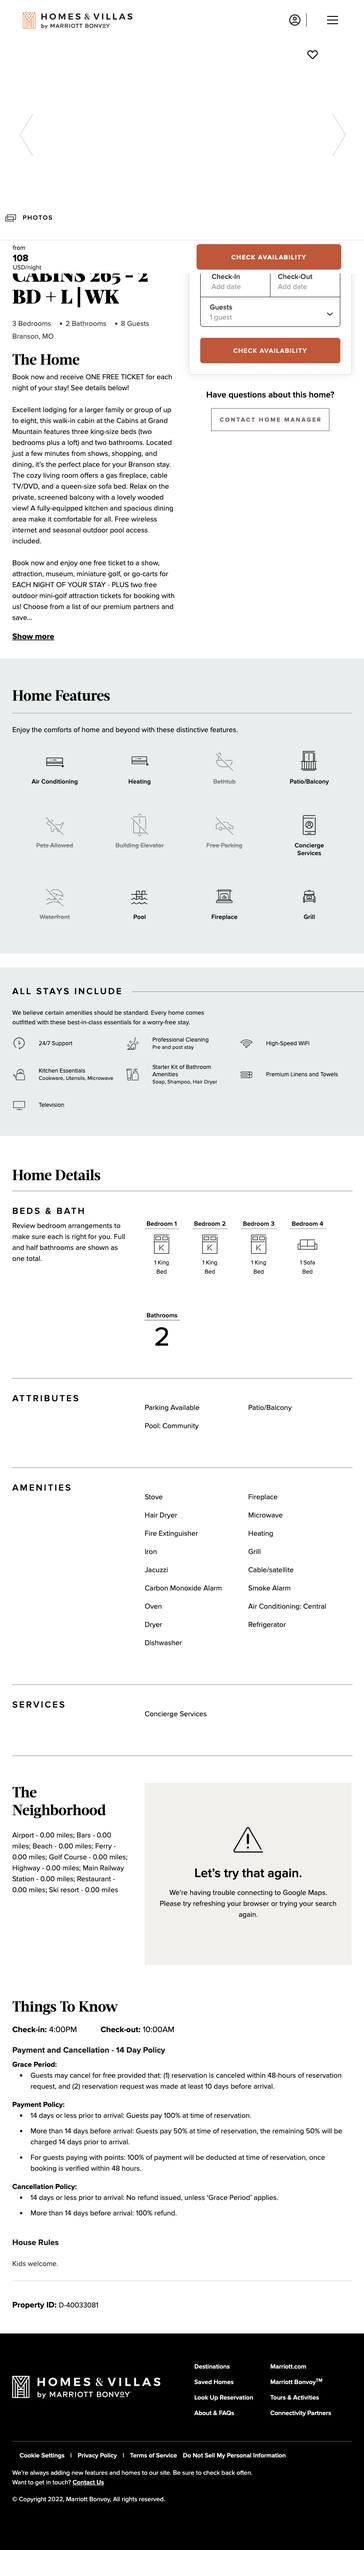
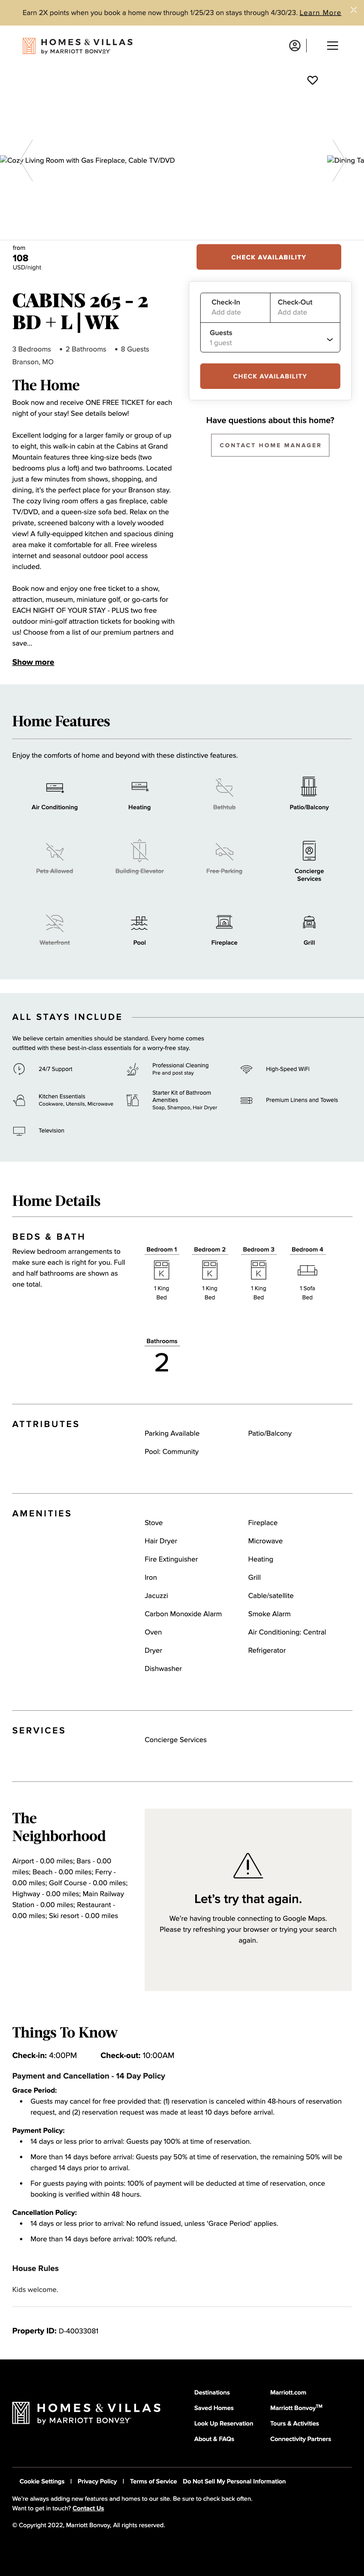
screenshots upload to minio made dynamic

diff --git a/scraper-marriott.js b/scraper-marriott.js
@@ -1,0 +1,168 @@
+const getInputData = require('./input-data');
+const options = require('./config');
+const s3Client = require('./s3-client');
+const Stream = require('stream');
+const { createGzip } = require('zlib');
+const csvWriteStream = require('csv-write-stream');
+const requestDataPaths = {
+    check_in_date: '#pdp-103-bleed-0-pdphomesummary > div > div > div > div > div:nth-child(2) > div > div:nth-child(1) > div > div > div > div > div > div > div > div > div> div:nth-child(1)  > span > div:nth-child(2)',
+    check_out_date: '#pdp-103-bleed-0-pdphomesummary > div > div > div > div > div:nth-child(2) > div> div:nth-child(1) > div > div > div > div> div > div> div > div > div > div:nth-child(4)> span > div:nth-child(2)',
+    price_per_night: '#pdp-103-bleed-0-pdphomesummary > div > div > div > div > div:nth-child(2) > div> div:nth-child(1) > div > div:nth-child(1)> div:nth-child(1) > div:nth-child(2)>div>div>div:nth-child(1)',
+    security_deposit_brut_not_sliced: '#pdp-103-bleed-0-pdphomesummary > div > div > div > div > div:nth-child(2) > div> div:nth-child(1) > div > div:nth-child(1)> div:nth-child(1) > div:nth-child(2)>div>div>div:nth-child(2)',
+    cleaning_fee_brut_not_sliced: '#pdp-103-bleed-0-pdphomesummary > div > div > div > div > div:nth-child(2) > div> div:nth-child(1) > div > div:nth-child(1)> div:nth-child(1) > div:nth-child(2)>div>div>div:nth-child(3)',
+    taxes_fee_brut_not_sliced: '#pdp-103-bleed-0-pdphomesummary > div > div > div > div > div:nth-child(2) > div> div:nth-child(1) > div > div:nth-child(1)> div:nth-child(1) > div:nth-child(2)>div>div>div:nth-child(4)',
+    total_amount_brut_not_sliced: '#pdp-103-bleed-0-pdphomesummary > div > div > div > div > div:nth-child(2) > div> div:nth-child(1) > div > div:nth-child(1)> div:nth-child(1) > div:nth-child(2)>div>div>div:nth-child(5)'
+}
+
+// let counter = 0;
+
+async function getData(browser, urls, writeStream) {
+    for (i = 0; i <= urls.length; i++) {
+        try {
+            let newPage = await browser.newPage();
+            await newPage.setDefaultNavigationTimeout(0);
+            console.log('navigation to the current search_page  : ', urls[i]);
+
+            await newPage.goto(urls[i]);
+            await newPage.waitForSelector('#__next');
+
+            let dataObj = {};
+            await newPage.$('#__next');
+            // let path = 'screenshot-' + i + '.png';
+
+            screenshot = await newPage.screenshot({
+                path: 'screenshot-' + i + '.png',
+                fullPage: true
+            });
+
+            await s3Client.upload({
+                Key: options.awsS3OutputScreenshotsKey + '/screenshot-' + i + '.png',
+                Bucket: options.awsS3OutputScreenshotsBucket,
+                Body: screenshot
+            }).promise()       
+
+            console.log('the results are ...');
+            dataObj['URL'] = await newPage.url();
+
+            check_in_date = await newPage.$(requestDataPaths.check_in_date) !== null ? await newPage.$eval(requestDataPaths.check_in_date, text => text.textContent) :  "no check_in_date";
+            check_out_date = await newPage.$(requestDataPaths.check_out_date) !== null ? await newPage.$eval(requestDataPaths.check_out_date, text => text.textContent) :  "no check_out_date";
+            price_per_night = await newPage.$(requestDataPaths.price_per_night_brut) !== null ? await newPage.$eval(requestDataPaths.price_per_night_brut, text => text.textContent) :  "no price_per_night_brut";
+            security_deposit_brut_not_sliced = await newPage.$(requestDataPaths.security_deposit_brut_not_sliced) !== null ? await newPage.$eval(requestDataPaths.security_deposit_brut_not_sliced, text => text.textContent) :  "no security_deposit_brut_not_sliced";
+            security_deposit_brut = security_deposit_brut_not_sliced.slice(0, 5);                
+            cleaning_fee_brut_not_sliced = await newPage.$(requestDataPaths.cleaning_fee_brut_not_sliced) !== null ? await newPage.$eval(requestDataPaths.cleaning_fee_brut_not_sliced, text => text.textContent) :  "no cleaning_fee_brut_not_sliced";
+            cleaning_fee_brut = cleaning_fee_brut_not_sliced.slice(0, 5);
+            taxes_fee_brut_not_sliced = await newPage.$(requestDataPaths.taxes_fee_brut_not_sliced) !== null ? await newPage.$eval(requestDataPaths.taxes_fee_brut_not_sliced, text => text.textContent) :  "no taxes_fee_brut_not_sliced";
+            taxes_fee_brut = cleaning_fee_brut_not_sliced.slice(0, 5);
+            total_amount_brut_not_sliced = await newPage.$(requestDataPaths.total_amount_brut_not_sliced) !== null ? await newPage.$eval(requestDataPaths.total_amount_brut_not_sliced, text => text.textContent) :  "no total_amount_brut_not_sliced";
+            total_amount_brut = total_amount_brut_not_sliced.slice(0, 5);
+
+            // security deposit identification -------------------------------------------------------------------------------------------
+
+            if (security_deposit_brut == 'Secur') {
+                security_deposit = dataObj['security_deposit_brut']
+            }
+            else if (cleaning_fee_brut == 'Secur') {
+                security_deposit = dataObj['cleaning_fee_brut']
+            }
+            else if (taxes_fee_brut == 'Secur') {
+                taxes_fee = dataObj['taxes_fee_brut']
+            }
+            else if (total_amount_brut == 'Secur') {
+                total_amount = dataObj['total_amount_brut']
+            }
+            else {
+                security_deposit = 'no security deposit'
+            }
+            // cleaning fee identification -------------------------------------------------------------------------------------------
+
+            if (cleaning_fee_brut == 'Clean') {
+                cleaning_fee = dataObj['cleaning_fee_brut']
+            }
+            else if (taxes_fee_brut == 'Clean') {
+                cleaning_fee = dataObj['taxes_fee_brut']
+            }
+            else if (total_amount_brut == 'Clean') {
+                cleaning_fee = dataObj['total_amount_brut']
+            }
+            else {
+                cleaning_fee = 'no cleaning fee'
+            }
+            // taxes fee identification -------------------------------------------------------------------------------------------
+
+            if (taxes_fee_brut == 'Taxes') {
+                taxes_fee = dataObj['taxes_fee_brut']
+            }
+            else if (total_amount_brut == 'Taxes') {
+                taxes_fee = dataObj['total_amount_brut']
+            }
+            else {
+                taxes_fee = 'no taxes fee'
+            }
+
+            // total amount identification -------------------------------------------------------------------------------------------
+
+            if (total_amount_brut == 'Total') {
+                total_amount = dataObj['total_amount_brut']
+            }
+            else {
+                total_amount = 'no total amount'
+            }
+
+            const result =
+            {
+                outputFile: options.awsS3OutputKey,
+                // counter: counter,
+                search_URL: `${dataObj['URL']}`,
+                check_in_date: check_in_date,
+                check_out_date: check_out_date,
+                price_per_night: price_per_night,
+                security_deposit: security_deposit,
+                cleaning_fee: cleaning_fee,
+                taxes_fee: taxes_fee,
+                total_amount: total_amount,
+            };
+            console.log('pushing result', result)
+            writeStream.write(result)
+            await newPage.close();
+        }
+        catch (error) {
+            console.error(error);
+            throw error
+        }
+    }
+}
+
+async function scrapeAll(browserInstance) {
+    const writeStream = csvWriteStream({ separator: ',', enclose: true });
+    const outStream = new Stream.PassThrough();
+    const urls = await getInputData(options);
+
+    console.log('workerindex urls are : ', urls);
+    let browser;
+    try {
+        writeStream
+            .pipe(createGzip())
+            .pipe(outStream);
+        browser = await browserInstance;
+
+        await getData(browser, urls, writeStream); 
+
+        console.log('ending');
+        writeStream.end();
+
+        await s3Client.upload({
+            Key: options.awsS3OutputKey,
+            Bucket: options.awsS3OutputBucket,
+            Body: outStream
+        }).promise()
+    }
+    catch (error) {
+        console.error(error);
+        throw error;
+    }
+    finally {
+        await browser.close();
+    }
+}
+
+module.exports = (browserInstance) => scrapeAll(browserInstance)

diff --git a/config.js b/config.js
@@ -3,7 +3,6 @@ const moment = require('moment');
 const AWS = require('aws-sdk');
 const assert = require('assert');
 
-
 config.env.load();
 
 const cliArguments = [
@@ -47,6 +46,16 @@ const cliArguments = [
         description: '(optional) Full S3 URI of the .csv.gz file where the file will be written',
     },
     {
+        name: 'aws-s3-output-screenshots-path',
+        type: String,
+        description: 'folder where the screenshots will be uploaded while scraping the listings',
+    },
+    {
+        name: 'aws-s3-output-screenshots-bucket',
+        type: String,
+        description: '(optional) Full S3 URI of the screenshots where the file will be written',
+    },
+    {
         name: 'aws-s3-output-bucket',
         type: String,
         description: '(optional) Full S3 URI of the .csv.gz file where the file will be written',
@@ -80,14 +89,18 @@ function parseOptions(rawOptions) {
     let awsS3InputKey;
     let awsS3OutputBucket;
     let awsS3OutputKey = [];
+    let awsS3OutputScreenshotsBucket;
+    let awsS3OutputScreenshotsKey = [];
     let awsS3Region = rawOptions['aws-s3-region'];
     let awsS3InputFilePath = rawOptions['aws-s3-input-path'];
     let awsS3OutputFilePath = rawOptions['aws-s3-output-file-path'];
     let awsS3OutputFilePathFormat = rawOptions['aws-s3-output-path-file-format'];
+    let awsS3OutputScreenshotsPath = rawOptions['aws-s3-output-screenshots-path'];
     let numWorkers = rawOptions['num-workers'];
     let workerIndex = rawOptions['worker-index'];
     let awsS3Endpoint = rawOptions['aws-s3-endpoint'];
 
+    console.log('awsS3OutputScreenshotsPath ======', awsS3OutputScreenshotsPath);
 
     assert(rawOptions['aws-s3-access-key'], '--aws-s3-access-key is required');
     assert(rawOptions['aws-s3-secret-key'], '--aws-s3-secret-key is required');
@@ -115,15 +128,17 @@ function parseOptions(rawOptions) {
     assert(partsOutput && partsOutput.length === 3, '--aws-s3-output-path should be a valid S3 location for a .csv file');
     awsS3OutputBucket = partsOutput[1];
     console.log('awsS3OutputBucket', awsS3OutputBucket);
-    // console.log('awsS3OutputKey', awsS3OutputKey);
+    awsS3OutputKey = numWorkers > 1 ? `${partsOutput[2]}.worker-${workerIndex}.csv.gz` : null;
 
-    // function getS3OutputFilename(workerIndex) {
-    // return numWorkers > 1 ? `${partsOutput[2]}.worker-${workerIndex}.csv.gz` : null
-    // }
-    // let i = workerIndex + 1;
-    awsS3OutputKey = numWorkers > 1 ? `${partsOutput[2]}.worker-${ workerIndex}.csv.gz` : null;
+    const partsOutputScreenshots = /^s3:\/\/([^\/]+)\/((?:[^\/]+\/)*[^\/]+)/.exec(awsS3OutputScreenshotsPath);
+    // assert(partsOutputScreenshots && partsOutputScreenshots.length === 3, '--aws-s3-output-path should be a valid folder');
+    console.log('partsOutputScreenshots ======', partsOutputScreenshots);
 
-    console.log('awsS3OutputKey', awsS3OutputKey);
+    awsS3OutputScreenshotsBucket = partsOutputScreenshots[1];
+    console.log('awsS3OutputBucket', awsS3OutputScreenshotsBucket);
+    awsS3OutputScreenshotsKey = partsOutputScreenshots[2];
+
+    console.log('awsS3OutputKey', awsS3OutputScreenshotsKey);
 
     const options = {
         awsS3AccessKey,
@@ -133,6 +148,8 @@ function parseOptions(rawOptions) {
         awsS3InputKey,
         awsS3OutputBucket,
         awsS3OutputKey,
+        awsS3OutputScreenshotsBucket,
+        awsS3OutputScreenshotsKey,
         awsS3InputFilePath,
         awsS3OutputFilePath,
         awsS3OutputFilePath,

diff --git a/scraper.js b/scraper.js
@@ -1,11 +1,21 @@
 const getInputData = require('./input-data');
 const options = require('./config');
-const s3Client = require('./s3Client');
+const s3Client = require('./s3-client');
 const Stream = require('stream');
 const { createGzip } = require('zlib');
 const csvWriteStream = require('csv-write-stream');
 
 let counter = 0;
+
+requestDataPaths = {
+    check_in_date: '#pdp-103-bleed-0-pdphomesummary > div > div > div > div > div:nth-child(2) > div > div:nth-child(1) > div > div > div > div > div > div > div > div > div> div:nth-child(1)  > span > div:nth-child(2)',
+    check_out_date: '#pdp-103-bleed-0-pdphomesummary > div > div > div > div > div:nth-child(2) > div> div:nth-child(1) > div > div > div > div> div > div> div > div > div > div:nth-child(4)> span > div:nth-child(2)',
+    price_per_night_brut: '#pdp-103-bleed-0-pdphomesummary > div > div > div > div > div:nth-child(2) > div> div:nth-child(1) > div > div:nth-child(1)> div:nth-child(1) > div:nth-child(2)>div>div>div:nth-child(1)',
+    security_deposit_brut_not_sliced: '#pdp-103-bleed-0-pdphomesummary > div > div > div > div > div:nth-child(2) > div> div:nth-child(1) > div > div:nth-child(1)> div:nth-child(1) > div:nth-child(2)>div>div>div:nth-child(2)',
+    cleaning_fee_brut_not_sliced: '#pdp-103-bleed-0-pdphomesummary > div > div > div > div > div:nth-child(2) > div> div:nth-child(1) > div > div:nth-child(1)> div:nth-child(1) > div:nth-child(2)>div>div>div:nth-child(3)',
+    taxes_fee_brut_not_sliced: '#pdp-103-bleed-0-pdphomesummary > div > div > div > div > div:nth-child(2) > div> div:nth-child(1) > div > div:nth-child(1)> div:nth-child(1) > div:nth-child(2)>div>div>div:nth-child(4)',
+    total_amount_brut_not_sliced: '#pdp-103-bleed-0-pdphomesummary > div > div > div > div > div:nth-child(2) > div> div:nth-child(1) > div > div:nth-child(1)> div:nth-child(1) > div:nth-child(2)>div>div>div:nth-child(5)'
+}
 
 async function scrapeAll(browserInstance) {
     const writeStream = csvWriteStream({ separator: ',', enclose: true });

diff --git a/input-data.js b/input-data.js
@@ -1,6 +1,15 @@
-const AWS = require('aws-sdk');
-const s3Client = require('./s3Client');
-const options = require('./config');
+const s3Client = require('./s3-client');
+
+const getInputChunks = (inputUrls=[], numberChunks) => {
+   const chunks = [];
+   while(inputUrls.length) {
+      const chunkSize = Math.ceil(inputUrls.length/numberChunks--);
+      const chunk = inputUrls.slice(0, chunkSize);
+      chunks.push(chunk);
+      inputUrls = inputUrls.slice(chunkSize);
+   };
+   return chunks;
+};
 
 async function getInputData(options) {
     const csvContent = await s3Client.getObject({
@@ -8,20 +17,12 @@ async function getInputData(options) {
         Key: options.awsS3InputKey,
     }).promise();
 
-    const numWorkers = options.numWorkers;
-    const workerIndex = options.workerIndex;
     const allUrls = csvContent.Body.toString().split('\n').map(e => e.trim());
 
-    const equalChunks = (inputUrls, numberChunks) => {
-        const size = Math.ceil(inputUrls.length / numberChunks);
-        return Array.from({ length: numberChunks }, (v, i) =>
-        inputUrls.slice(i * size, i * size + size)
-        );
-    }
+    const result = getInputChunks(allUrls, options.numWorkers);
 
-    const result = equalChunks(allUrls, options.numWorkers);
     console.log('chunks are : ', result)
-    return result[workerIndex];
+    return result[options.workerIndex];
 }
 
 module.exports = getInputData;

diff --git a/index.js b/index.js
@@ -1,3 +1,4 @@
-const scraper = require('./scraper');
+// const scraper = require('./scraper');
+const scraper = require('./scraper-marriott');
 const browserObject = require('./browser');
 scraper(browserObject.startBrowser());

diff --git a/s3-client.js b/s3-client.js
@@ -1,7 +1,6 @@
 const AWS = require('aws-sdk');
 const options = require('./config');
 
-
 let s3Client = new AWS.S3(
     {
         accessKeyId: options.awsS3AccessKey,
